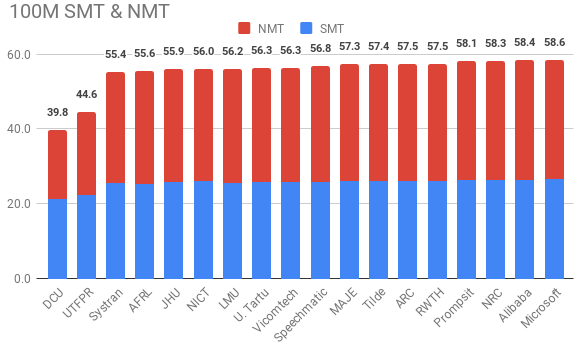
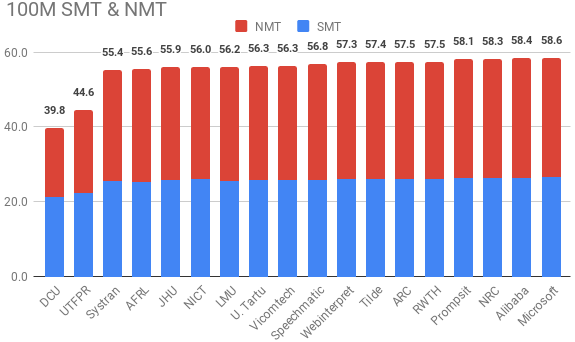
updated plots and names of participation to webinterpret

diff --git a/results.tex b/results.tex
@@ -42,4 +42,4 @@ Figure~\ref{fig:results} displays the score of the best submission of each indiv
 
 One first observation we can make is that (almost) all scores are quite close to each other with little variation between them; particularly in the $100$ million condition. Also, the scores for the statistical and neural systems tend to follow the same pattern. We do not have confidence intervals available which makes difficult to interpret the observed differences between systems. Still, in the case of $100$ million tokens sub-sampling, it seems quite clear that all the systems except for the DCU and UTFPR submissions are of the same quality. There is only a $5\%$ relative improvement between the last system of this group and the best submission to the task. Scores are a bit more spread out in the $10$ million tokens sub-sampling. This indicates that $100$ million sample neutralizes the differences between the data cleaning methods and allows (almost) all systems to reach a theoretical maximum.
 
-Our submission (MAJE) scored $22.5$ for statistical and $24.8$ for neural MT systems on the $10$ million tokens sub-sampling, in comparison to the corresponding scores of $24.5$ and $28.6$ achieved by the best submission. For the $100$ million condition, we scored $26.1$ and $31.2$, in comparison to the best system with the respective scores of $26.5$ and $32.1$. 
+Our submission (Webinterpret) scored $22.5$ for statistical and $24.8$ for neural MT systems on the $10$ million tokens sub-sampling, in comparison to the corresponding scores of $24.5$ and $28.6$ achieved by the best submission. For the $100$ million condition, we scored $26.1$ and $31.2$, in comparison to the best system with the respective scores of $26.5$ and $32.1$. 

diff --git a/main.tex b/main.tex
@@ -14,13 +14,13 @@
 \newcommand\confname{EMNLP 2018}
 \newcommand\conforg{SIGDAT}
 
-\title{MAJE Submission to the\\WMT2018 Shared Task on Parallel Corpus Filtering}
+\title{Webinterpret Submission to the\\WMT2018 Shared Task on Parallel Corpus Filtering}
 
 \author{Marina Fomicheva \\
   Independent researcher \\
   {\tt mari.fomicheva@gmail.com} \\\And
   Jes\'us Gonz\'alez-Rubio \\
-  Independent researcher\\
+  WebInterpret\\
   {\tt jesus.g.rubio@gmail.com} \\}
 
 \date{}
@@ -28,7 +28,7 @@
 \begin{document}
 \maketitle
 \begin{abstract}
-  This paper describes the participation of MAJE in the shared task on parallel corpus filtering at the Third Conference on Machine Translation (WMT 2018). The paper describes the main characteristics of our approach and discusses the results obtained on the data sets published for the shared task.
+  This paper describes the participation of Webinterpret in the shared task on parallel corpus filtering at the Third Conference on Machine Translation (WMT 2018). The paper describes the main characteristics of our approach and discusses the results obtained on the data sets published for the shared task.
 \end{abstract}
 
 
@@ -39,7 +39,7 @@
 
 
 \section*{Acknowledgments}
-%Thanks to us.
+% thanks to us
 
 
 
